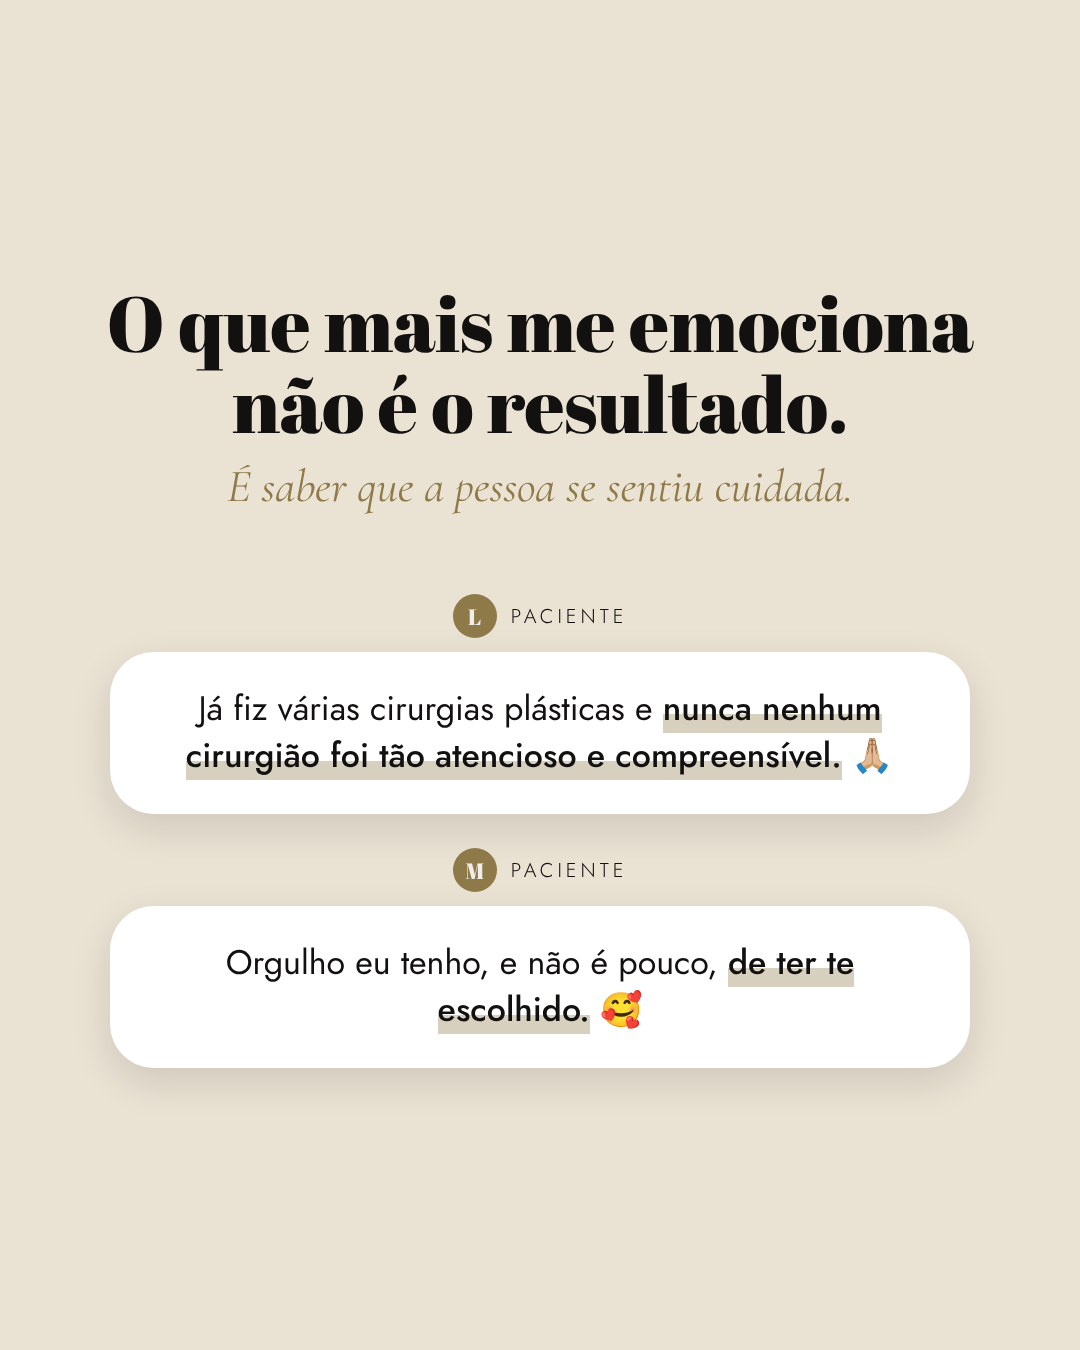
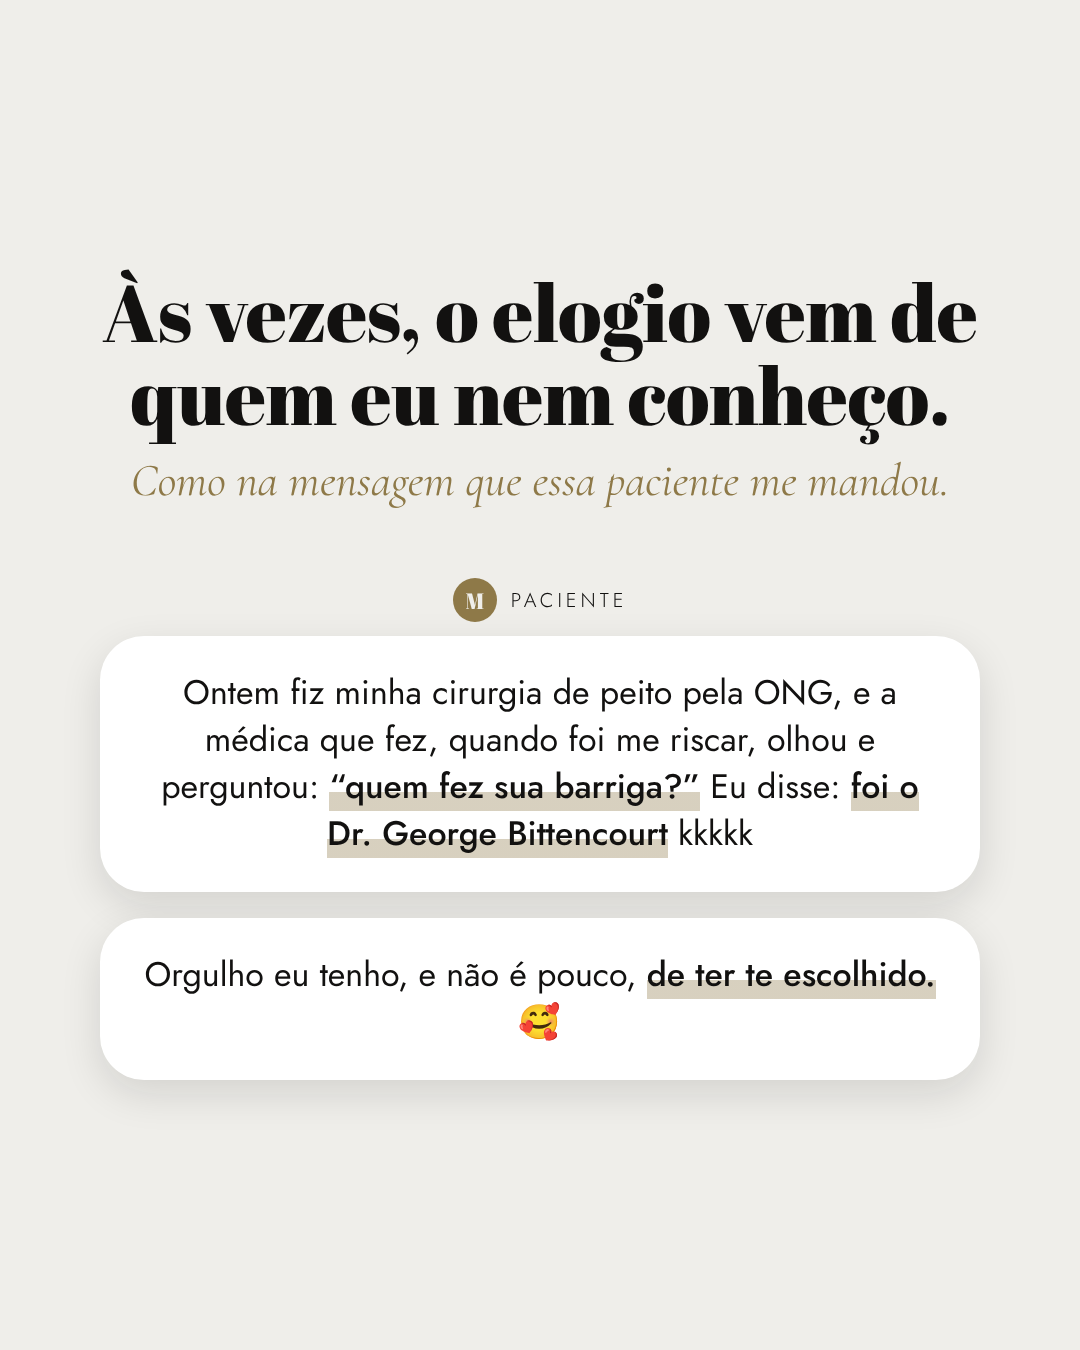
Expand Dia do Médico carousel to 6 slides
Claude-Session: https://claude.ai/code/session_01GVhh6PVXGt4EJQoc58yRio

Changed region(s): [[0.0917, 0.4044, 0.9167, 0.8089], [0.0917, 0.1867, 0.9167, 0.3733]]

diff --git a/carrossel-dia-do-medico/carrossel.html b/carrossel-dia-do-medico/carrossel.html
@@ -119,20 +119,33 @@
   </div>
 </section>
 
-<!-- 04 · CUIDADO -->
-<section class="slide beige" id="s4">
-  <div style="margin:auto 0;text-align:center"><h2 class="fat" style="font-size:78px">O que mais me emociona não é o resultado.</h2>
-  <p class="it" style="font-size:46px;color:var(--gold);margin-top:14px">É saber que a pessoa se sentiu cuidada.</p>
-  <div style="margin-top:80px">
-    <div class="who" style="justify-content:center;margin-left:0"><i>L</i>Paciente</div>
-    <div class="bub" style="box-shadow:0 14px 40px rgba(18,17,16,.12);background:#fff;margin:0 auto;text-align:center;max-width:860px;border-radius:44px">Já fiz várias cirurgias plásticas e <b>nunca nenhum cirurgião foi tão atencioso e compreensível.</b> 🙏🏼</div>
-    <div class="who" style="justify-content:center;margin:34px 0 14px"><i>M</i>Paciente</div>
-    <div class="bub" style="box-shadow:0 14px 40px rgba(18,17,16,.12);background:#fff;margin:0 auto;text-align:center;max-width:860px;border-radius:44px">Orgulho eu tenho, e não é pouco, <b>de ter te escolhido.</b> 🥰</div>
-  </div></div>
+<!-- 04 · BOCA A BOCA -->
+<section class="slide" id="s4">
+  <div style="margin:auto 0;text-align:center">
+    <h2 class="fat" style="font-size:80px">Às vezes, o elogio vem de quem eu nem conheço.</h2>
+    <p class="it" style="font-size:46px;color:var(--gold);margin-top:16px">Como na mensagem que essa paciente me mandou.</p>
+    <div style="margin-top:70px">
+      <div class="who" style="justify-content:center;margin:0 0 14px"><i>M</i>Paciente</div>
+      <div class="bub" style="box-shadow:0 14px 40px rgba(18,17,16,.12);background:#fff;margin:0 auto;text-align:center;max-width:880px;border-radius:44px">Ontem fiz minha cirurgia de peito pela ONG, e a médica que fez, quando foi me riscar, olhou e perguntou: <b>“quem fez sua barriga?”</b> Eu disse: <b>foi o Dr. George Bittencourt</b> kkkkk</div>
+      <div class="bub" style="box-shadow:0 14px 40px rgba(18,17,16,.12);background:#fff;margin:26px auto 0;text-align:center;max-width:880px;border-radius:44px">Orgulho eu tenho, e não é pouco, <b>de ter te escolhido.</b> 🥰</div>
+    </div>
+  </div>
 </section>
 
-<!-- 05 · FECHAMENTO -->
-<section class="slide gold" id="s5">
+<!-- 05 · CUIDADO -->
+<section class="slide dark" id="s5">
+  <div style="margin:auto 0;text-align:center">
+    <h2 class="fat" style="font-size:84px;color:var(--off)">O que mais me emociona não é o resultado.</h2>
+    <p class="it" style="font-size:50px;color:var(--gold-soft);margin-top:18px">É saber que a pessoa se sentiu cuidada.</p>
+    <div style="margin-top:80px">
+      <div class="who" style="justify-content:center;margin:0 0 14px;color:var(--stone)"><i>L</i>Paciente</div>
+      <div class="bub" style="margin:0 auto;text-align:center;max-width:880px;border-radius:44px;font-size:38px">Já fiz várias cirurgias plásticas e <b>nunca nenhum cirurgião foi tão atencioso e compreensível.</b> 🙏🏼</div>
+    </div>
+  </div>
+</section>
+
+<!-- 06 · FECHAMENTO -->
+<section class="slide gold" id="s6">
   <div style="margin:auto 0">
     <p class="caps">Feliz Dia do Médico</p>
     <h2 class="fat" style="font-size:96px;margin-top:26px">Cada mensagem dessas me lembra por que eu escolhi a medicina.</h2>
